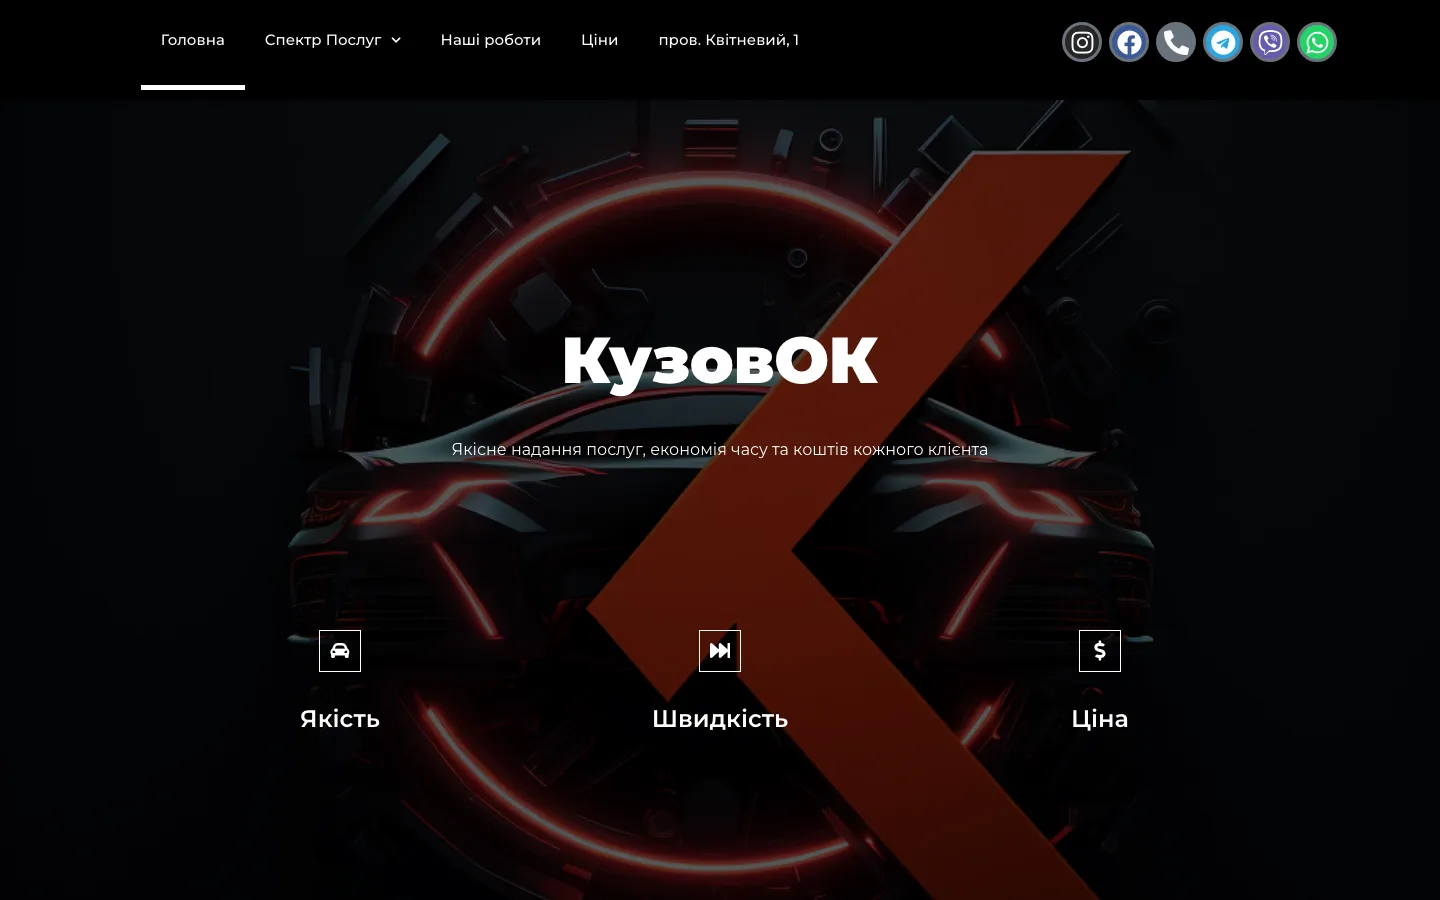
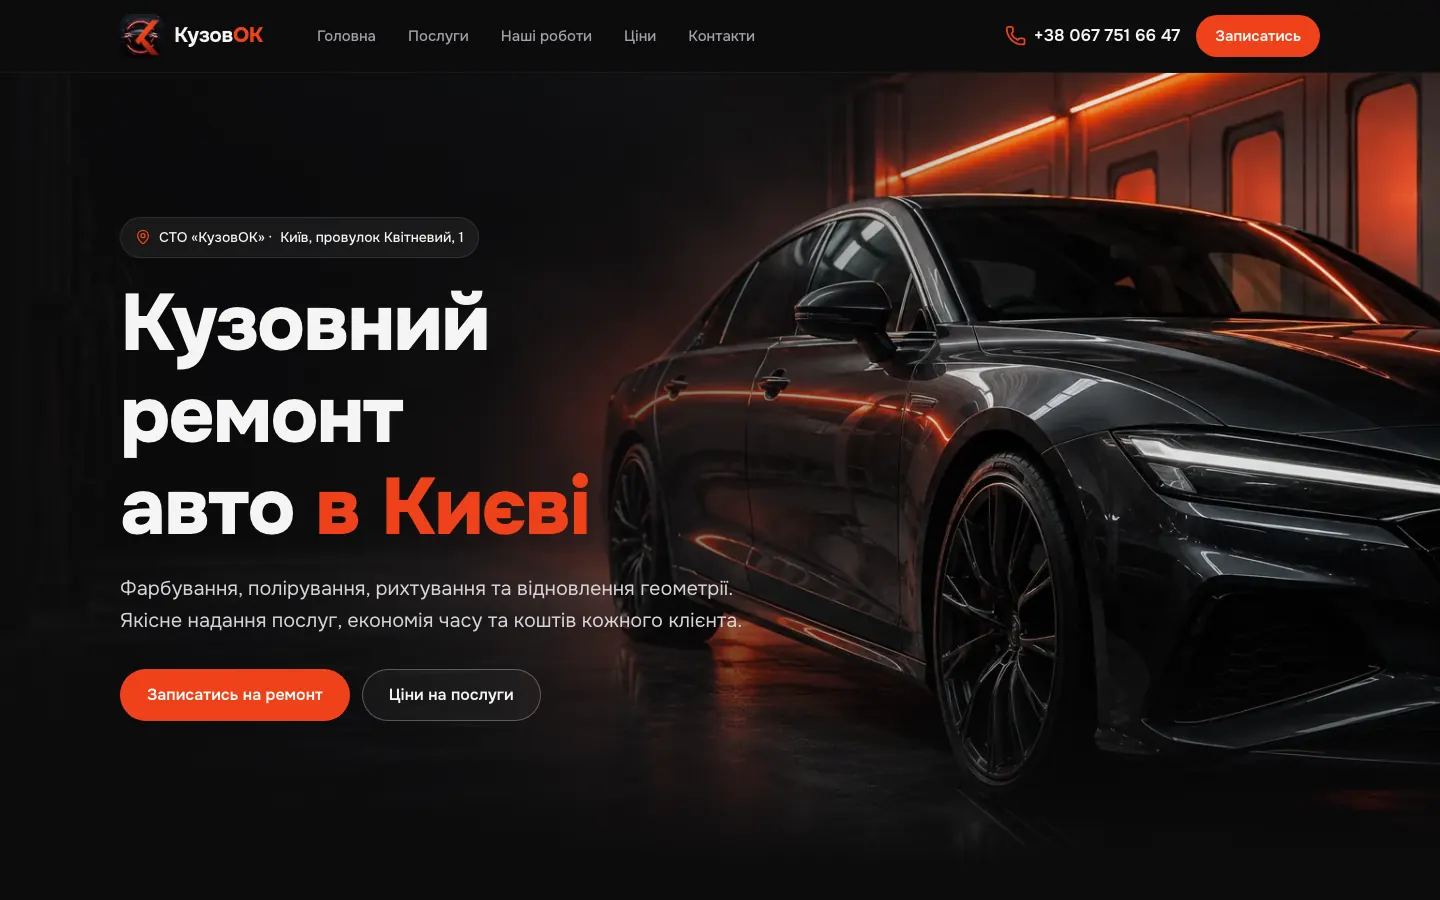
fix: refresh the stale Kuzovok and Majda Bekkali previews
Kuzovok has been rebuilt since the old capture: different hero, nav,
and layout entirely, so the card was advertising a site that no
longer exists.

The Majda Bekkali capture was defective rather than outdated -- the
lower grid held four unloaded grey placeholders. The new one catches
the carousel on a cleaner slide with everything loaded.
majdabekkaliparis-com is the same image, since that domain redirects
there, so it stays in sync.

/previews/ is served immutable for a year and the references carried
no version, so replacing the files alone would have left returning
visitors on the old images. Add ?v= to the three that changed; the
untouched previews keep their bare URLs.

Left alone deliberately: Nisha and Kyiv Agency are pixel-identical to
their current previews; Toramp and Karavan only rotated content with
no design change; Agroflot is unchanged, and a fresh capture there
came out worse because the page was mid-animation.

diff --git a/ua/index.html b/ua/index.html
@@ -414,9 +414,9 @@
             </div>
           </button>
 
-          <button class="site-card large" type="button" data-preview-title="Kuzovok" data-preview-role="Автомобільний сервіс" data-preview-status="Live" data-preview-year="2023 - дотепер" data-preview-domain="kuzovok.kyiv.ua" data-preview-url="https://www.kuzovok.kyiv.ua/" data-preview-embed="true" data-preview-image="/previews/kuzovok-kyiv-ua.webp" data-preview-summary="Автомобільний сервісний сайт із сильною візуальною подачею та прямою навігацією." data-reveal>
+          <button class="site-card large" type="button" data-preview-title="Kuzovok" data-preview-role="Автомобільний сервіс" data-preview-status="Live" data-preview-year="2023 - дотепер" data-preview-domain="kuzovok.kyiv.ua" data-preview-url="https://www.kuzovok.kyiv.ua/" data-preview-embed="true" data-preview-image="/previews/kuzovok-kyiv-ua.webp?v=20260923" data-preview-summary="Автомобільний сервісний сайт із сильною візуальною подачею та прямою навігацією." data-reveal>
             <span class="preview-link">
-              <img src="/previews/kuzovok-kyiv-ua.webp" alt="Прев’ю сайту kuzovok.kyiv.ua" decoding="async" loading="lazy">
+              <img src="/previews/kuzovok-kyiv-ua.webp?v=20260923" alt="Прев’ю сайту kuzovok.kyiv.ua" decoding="async" loading="lazy">
             </span>
             <div>
               <p class="role">Автомобільний сервіс</p>
@@ -466,9 +466,9 @@
             </div>
           </button>
 
-          <button class="site-card" type="button" data-preview-title="Majda Bekkali" data-preview-role="Premium commerce" data-preview-status="Live" data-preview-year="2026" data-preview-domain="majdabekkali.com" data-preview-url="https://majdabekkali.com" data-preview-embed="false" data-preview-note="Цей Shopify-сайт блокує вбудовування в iframe, тому тут показується збережене прев’ю і залишається пряме посилання на live-сайт." data-preview-image="/previews/majdabekkali-com.webp" data-preview-summary="Преміальний product-сайт, який зараз працює на majdabekkali.com. Старий CV-домен majdabekkaliparis.com редіректить сюди." data-reveal>
+          <button class="site-card" type="button" data-preview-title="Majda Bekkali" data-preview-role="Premium commerce" data-preview-status="Live" data-preview-year="2026" data-preview-domain="majdabekkali.com" data-preview-url="https://majdabekkali.com" data-preview-embed="false" data-preview-note="Цей Shopify-сайт блокує вбудовування в iframe, тому тут показується збережене прев’ю і залишається пряме посилання на live-сайт." data-preview-image="/previews/majdabekkali-com.webp?v=20260923" data-preview-summary="Преміальний product-сайт, який зараз працює на majdabekkali.com. Старий CV-домен majdabekkaliparis.com редіректить сюди." data-reveal>
             <span class="preview-link">
-              <img src="/previews/majdabekkali-com.webp" alt="Прев’ю сайту majdabekkali.com" decoding="async" loading="lazy">
+              <img src="/previews/majdabekkali-com.webp?v=20260923" alt="Прев’ю сайту majdabekkali.com" decoding="async" loading="lazy">
             </span>
             <div>
               <p class="role">Premium commerce</p>
@@ -493,7 +493,7 @@
             <button type="button" class="archive-card" data-preview-title="Servis Piraty" data-preview-role="Сервісний сайт" data-preview-status="Архів" data-preview-year="2020-ті" data-preview-domain="servis-piraty.cz" data-preview-image="/previews/servis-piraty-cz.webp" data-preview-summary="Архівне прев’ю сервісного сайту. Домен зараз не резолвиться стабільно."><span>Servis Piraty</span><small>servis-piraty.cz · 2020-ті</small></button>
             <button type="button" class="archive-card" data-preview-title="E-Kuzov" data-preview-role="Commerce-каталог" data-preview-status="Архів" data-preview-year="2020-ті" data-preview-domain="e-kuzov.com.ua" data-preview-image="/previews/e-kuzov-com-ua.webp" data-preview-summary="Архівне прев’ю commerce-каталогу. Домен зараз не резолвиться стабільно."><span>E-Kuzov</span><small>e-kuzov.com.ua · 2020-ті</small></button>
             <button type="button" class="archive-card" data-preview-title="Advent Ukraine" data-preview-role="Контентний сайт" data-preview-status="Архів" data-preview-year="2020-ті" data-preview-domain="adventukraine.com.ua" data-preview-image="/previews/adventukraine-com-ua.webp" data-preview-summary="Архівне прев’ю контентного сайту. Домен зараз не резолвиться стабільно."><span>Advent Ukraine</span><small>adventukraine.com.ua · 2020-ті</small></button>
-            <button type="button" class="archive-card" data-preview-title="Majda Bekkali Paris" data-preview-role="Колишній домен" data-preview-status="Редірект" data-preview-year="2020-ті" data-preview-domain="majdabekkaliparis.com" data-preview-url="https://majdabekkaliparis.com" data-preview-embed="false" data-preview-note="Колишній домен редіректить на актуальний сайт Majda Bekkali, який блокує iframe-вбудовування." data-preview-image="/previews/majdabekkaliparis-com.webp" data-preview-summary="Колишній домен із CV. Він редіректить на актуальний сайт Majda Bekkali."><span>Majda Bekkali Paris</span><small>majdabekkaliparis.com · 2020-ті</small></button>
+            <button type="button" class="archive-card" data-preview-title="Majda Bekkali Paris" data-preview-role="Колишній домен" data-preview-status="Редірект" data-preview-year="2020-ті" data-preview-domain="majdabekkaliparis.com" data-preview-url="https://majdabekkaliparis.com" data-preview-embed="false" data-preview-note="Колишній домен редіректить на актуальний сайт Majda Bekkali, який блокує iframe-вбудовування." data-preview-image="/previews/majdabekkaliparis-com.webp?v=20260923" data-preview-summary="Колишній домен із CV. Він редіректить на актуальний сайт Majda Bekkali."><span>Majda Bekkali Paris</span><small>majdabekkaliparis.com · 2020-ті</small></button>
           </div>
         </div>
       </section>

diff --git a/index.html b/index.html
@@ -413,9 +413,9 @@
             </div>
           </button>
 
-          <button class="site-card large" type="button" data-preview-title="Kuzovok" data-preview-role="Automotive service" data-preview-status="Live" data-preview-year="2023 - Present" data-preview-domain="kuzovok.kyiv.ua" data-preview-url="https://www.kuzovok.kyiv.ua/" data-preview-embed="true" data-preview-image="/previews/kuzovok-kyiv-ua.webp" data-preview-summary="Automotive service website with strong visual positioning and direct navigation." data-reveal>
+          <button class="site-card large" type="button" data-preview-title="Kuzovok" data-preview-role="Automotive service" data-preview-status="Live" data-preview-year="2023 - Present" data-preview-domain="kuzovok.kyiv.ua" data-preview-url="https://www.kuzovok.kyiv.ua/" data-preview-embed="true" data-preview-image="/previews/kuzovok-kyiv-ua.webp?v=20260923" data-preview-summary="Automotive service website with strong visual positioning and direct navigation." data-reveal>
             <span class="preview-link">
-              <img src="/previews/kuzovok-kyiv-ua.webp" alt="Website preview for kuzovok.kyiv.ua" decoding="async" loading="lazy">
+              <img src="/previews/kuzovok-kyiv-ua.webp?v=20260923" alt="Website preview for kuzovok.kyiv.ua" decoding="async" loading="lazy">
             </span>
             <div>
               <p class="role">Automotive service</p>
@@ -465,9 +465,9 @@
             </div>
           </button>
 
-          <button class="site-card" type="button" data-preview-title="Majda Bekkali" data-preview-role="Premium commerce" data-preview-status="Live" data-preview-year="2026" data-preview-domain="majdabekkali.com" data-preview-url="https://majdabekkali.com" data-preview-embed="false" data-preview-note="This Shopify site blocks iframe embedding, so this portfolio shows a captured preview here and keeps the live-site link available." data-preview-image="/previews/majdabekkali-com.webp" data-preview-summary="Premium product website now running on majdabekkali.com. Former CV domain majdabekkaliparis.com redirects here." data-reveal>
+          <button class="site-card" type="button" data-preview-title="Majda Bekkali" data-preview-role="Premium commerce" data-preview-status="Live" data-preview-year="2026" data-preview-domain="majdabekkali.com" data-preview-url="https://majdabekkali.com" data-preview-embed="false" data-preview-note="This Shopify site blocks iframe embedding, so this portfolio shows a captured preview here and keeps the live-site link available." data-preview-image="/previews/majdabekkali-com.webp?v=20260923" data-preview-summary="Premium product website now running on majdabekkali.com. Former CV domain majdabekkaliparis.com redirects here." data-reveal>
             <span class="preview-link">
-              <img src="/previews/majdabekkali-com.webp" alt="Website preview for majdabekkali.com" decoding="async" loading="lazy">
+              <img src="/previews/majdabekkali-com.webp?v=20260923" alt="Website preview for majdabekkali.com" decoding="async" loading="lazy">
             </span>
             <div>
               <p class="role">Premium commerce</p>
@@ -492,7 +492,7 @@
             <button type="button" class="archive-card" data-preview-title="Servis Piraty" data-preview-role="Service website" data-preview-status="Archive" data-preview-year="2020s" data-preview-domain="servis-piraty.cz" data-preview-image="/previews/servis-piraty-cz.webp" data-preview-summary="Archived service-site preview. The domain is currently not resolving reliably."><span>Servis Piraty</span><small>servis-piraty.cz · 2020s</small></button>
             <button type="button" class="archive-card" data-preview-title="E-Kuzov" data-preview-role="Commerce catalog" data-preview-status="Archive" data-preview-year="2020s" data-preview-domain="e-kuzov.com.ua" data-preview-image="/previews/e-kuzov-com-ua.webp" data-preview-summary="Archived commerce-catalog preview. The domain is currently not resolving reliably."><span>E-Kuzov</span><small>e-kuzov.com.ua · 2020s</small></button>
             <button type="button" class="archive-card" data-preview-title="Advent Ukraine" data-preview-role="Content website" data-preview-status="Archive" data-preview-year="2020s" data-preview-domain="adventukraine.com.ua" data-preview-image="/previews/adventukraine-com-ua.webp" data-preview-summary="Archived content-site preview. The domain is currently not resolving reliably."><span>Advent Ukraine</span><small>adventukraine.com.ua · 2020s</small></button>
-            <button type="button" class="archive-card" data-preview-title="Majda Bekkali Paris" data-preview-role="Former domain" data-preview-status="Redirected" data-preview-year="2020s" data-preview-domain="majdabekkaliparis.com" data-preview-url="https://majdabekkaliparis.com" data-preview-embed="false" data-preview-note="The former domain redirects to the current Majda Bekkali website, which blocks iframe embedding." data-preview-image="/previews/majdabekkaliparis-com.webp" data-preview-summary="Former CV domain. It redirects to the current Majda Bekkali website."><span>Majda Bekkali Paris</span><small>majdabekkaliparis.com · 2020s</small></button>
+            <button type="button" class="archive-card" data-preview-title="Majda Bekkali Paris" data-preview-role="Former domain" data-preview-status="Redirected" data-preview-year="2020s" data-preview-domain="majdabekkaliparis.com" data-preview-url="https://majdabekkaliparis.com" data-preview-embed="false" data-preview-note="The former domain redirects to the current Majda Bekkali website, which blocks iframe embedding." data-preview-image="/previews/majdabekkaliparis-com.webp?v=20260923" data-preview-summary="Former CV domain. It redirects to the current Majda Bekkali website."><span>Majda Bekkali Paris</span><small>majdabekkaliparis.com · 2020s</small></button>
           </div>
         </div>
       </section>
